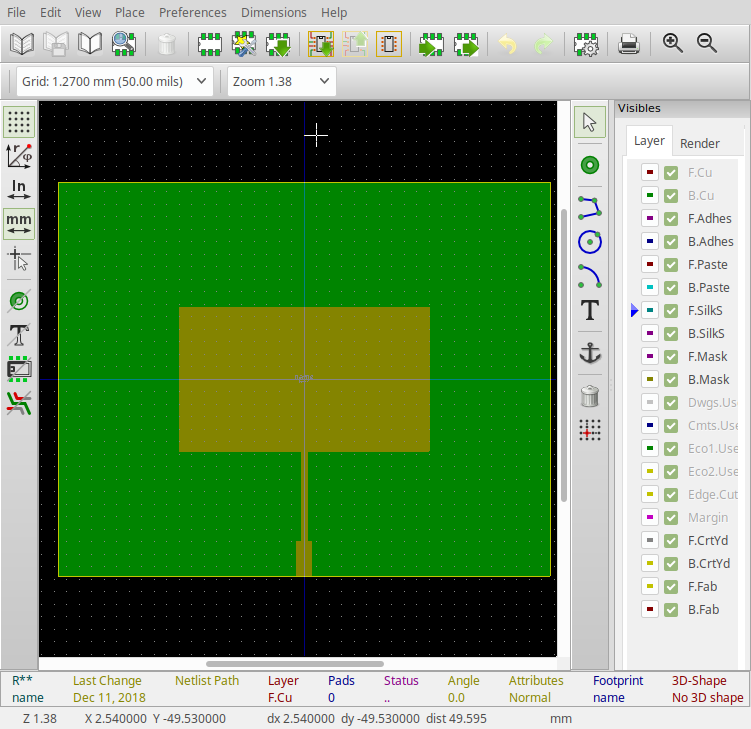
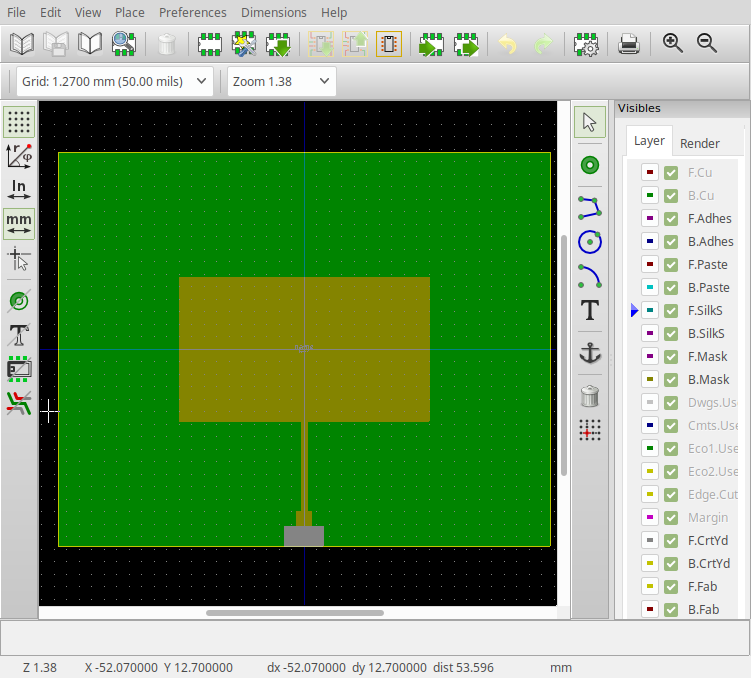
initial commit

diff --git a/patch.py b/patch.py
@@ -13,9 +13,14 @@ from footprint import Footprint
 fp = Footprint()
 board = (100, 80)
 ext = h * .44 * (1 - dw / zw) 
+corner = (-board[0]/2, -board[1]/2)
 
-fp.edge(board, origin=(-board[0]/2, -board[1]/2), layer='Edge.Cuts')
-fp.rect(board, origin=(-board[0]/2, -board[1]/2), layer='B.Cu')
+fp.edge(board, origin=corner, layer='Edge.Cuts')
+fp.rect(board, origin=corner, layer='B.Cu')
+
+fp.rect((8, -4), origin=(-4, board[1]/2), layer='F.Mask')
+fp.rect((8, -4), origin=(-4, board[1]/2), layer='B.Mask')
+
 fp.rect((w, l), origin=(-w/2, -l/2))
 fp.rect((dw, dl + ext), origin=(-dw/2, l/2))
 d = l/2 + dl + ext 

diff --git a/README.md b/README.md
@@ -62,7 +62,7 @@ Go back to Pcbnew and find the footprint at 0,0 in the
 upper left hand corner. 
 
 ```
-from footprint import Footprint
+# 2.4GHz Patch
 
 l = 29.2   # length of patch
 w = 50.8   # width of patch
@@ -72,12 +72,19 @@ zw = 3.1   # width of 50 ohm line
 h = 1.58   # dieletric (Er=4.2) height, ie 1/16"
 ext = .44  # open-circuit extension (l/h) of 50 ohm line
 
+from footprint import Footprint
+
 fp = Footprint()
 board = (100, 80)
 ext = h * .44 * (1 - dw / zw) 
+corner = (-board[0]/2, -board[1]/2)
 
-fp.edge(board, origin=(-board[0]/2, -board[1]/2), layer='Edge.Cuts')
-fp.rect(board, origin=(-board[0]/2, -board[1]/2), layer='B.Cu')
+fp.edge(board, origin=corner, layer='Edge.Cuts')
+fp.rect(board, origin=corner, layer='B.Cu')
+
+fp.rect((8, -4), origin=(-4, board[1]/2), layer='F.Mask')
+fp.rect((8, -4), origin=(-4, board[1]/2), layer='B.Mask')
+
 fp.rect((w, l), origin=(-w/2, -l/2))
 fp.rect((dw, dl + ext), origin=(-dw/2, l/2))
 d = l/2 + dl + ext 
